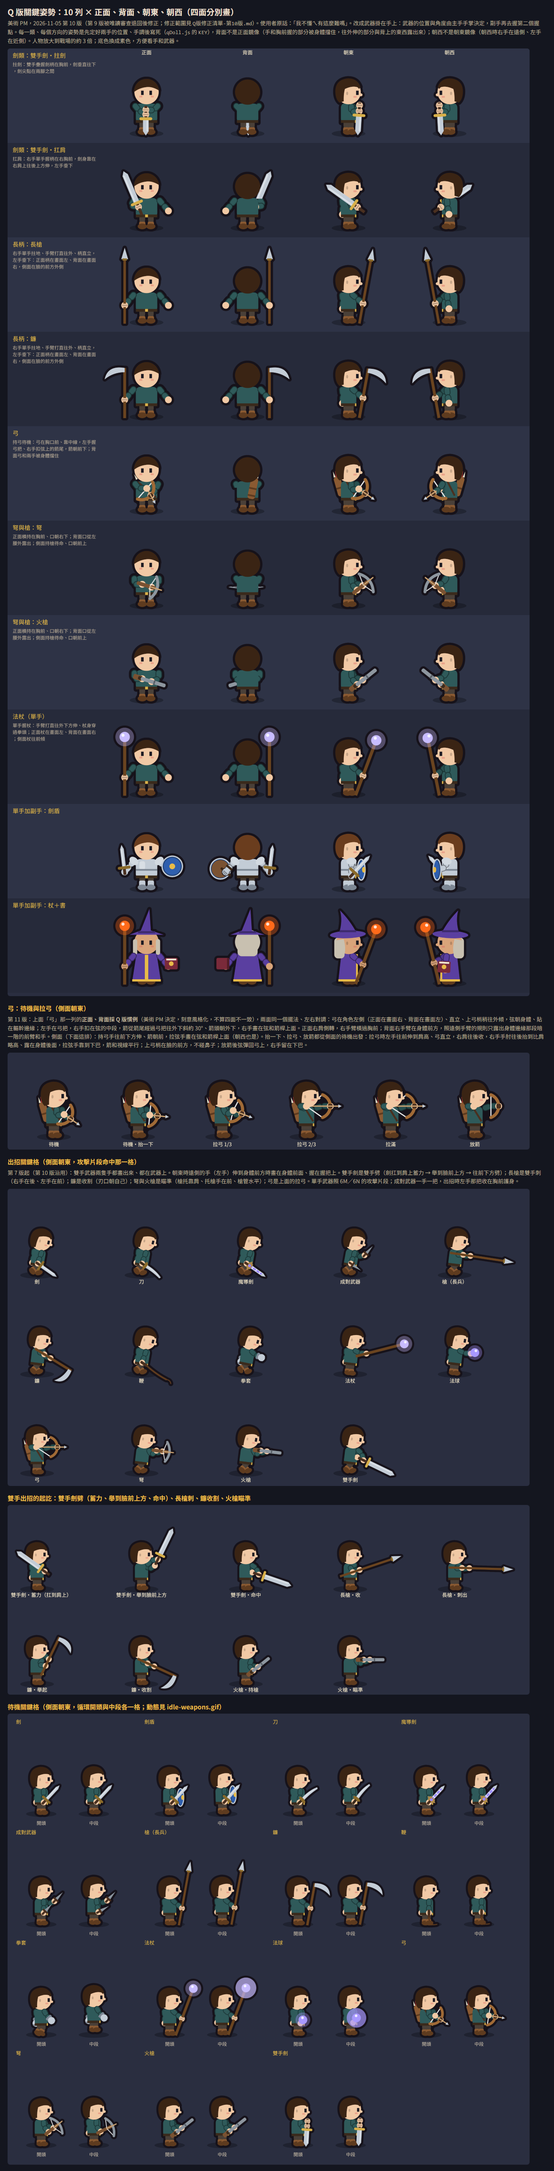
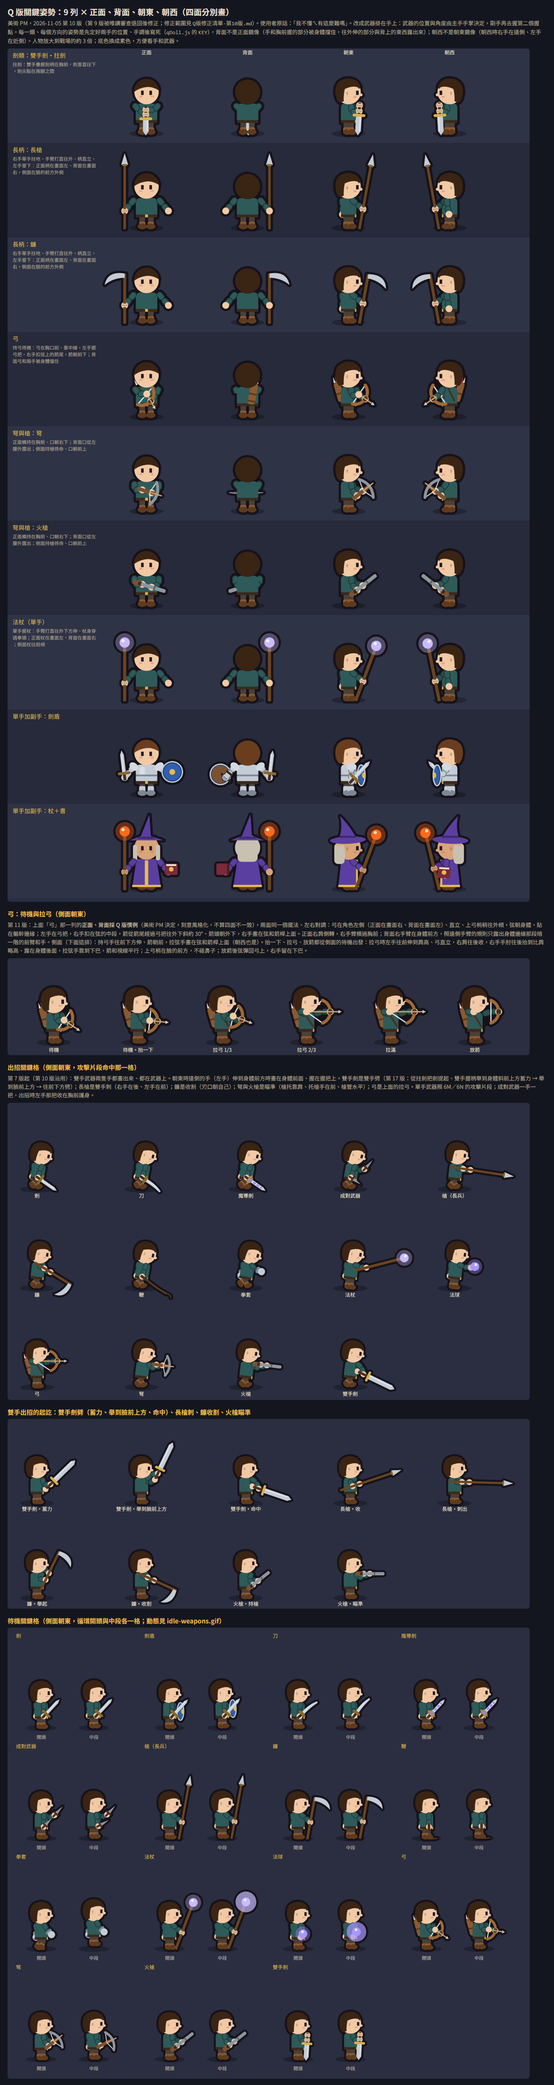
docs(art): Q v17 A — drop greatsword shoulder carry, windup lifts from plant two-handed
- Remove r02 row (4 closeups), GS switch, greatsword_shoulder pose and its
  helper paths; setGreatsword/getGreatsword removed.
- GS_ATK.from: lift from plant, both hands on hilt, blade to front-upper.
- Add ARM_SPREAD / SHIELD_CENTER switches (defaults keep v16 output).

diff --git a/docs/art/sample/qDoll.js b/docs/art/sample/qDoll.js
@@ -361,7 +361,7 @@ window.QDoll = (() => {
     const q0 = qWeapon(it), q = q0 && short && q0.kind === "greatsword" ? { ...q0, W: short === "f" ? QW.greatsword_kf : QW.greatsword_k } : q0;
     if (!q) { if (it) PD.drawWeapon(ctx, it, hand[0], view !== "back"); return; }
     ctx.save(); ctx.translate(hand[0], hand[1]); if (M) ctx.transform(M[0], M[1], M[2], M[3], 0, 0); else ctx.rotate(a);
-    if (mg) ctx.translate(0, -mg); // 主手握在武器座標 (0,mg)（扛肩握柄尾）
+    if (mg) ctx.translate(0, -mg); /* 主手握在武器座標 (0,mg) */
     q.W.draw(ctx, q.item);
     if (POSE && POSE.probe) {
       const m = ctx.getTransform(), o = offL;
@@ -388,9 +388,15 @@ window.QDoll = (() => {
   const UA = 5, FA = 5.5, REACH = UA + FA - 0.1;
   const rot = (a, [x, y]) => [x * Math.cos(a) - y * Math.sin(a), x * Math.sin(a) + y * Math.cos(a)];
   /* 第 15 版：OUTA＝持武器的手臂往外張開的角度（打直、不彎肘）；OH＝右肩打直張開時手的位置（正面左右對調） */
-  const OUTA = 0.7;
+  /* 第 17 版第 2 項（使用者：「兩隻手太開了」）：手臂往外張開的角度集中在 ARM_SPREAD 一個開關。A＝第 16 版（預設）、B＝收回一半、C＝只留一條小縫（3 倍特寫下手臂和軀幹之間 2～4px 背景色）。
+     只有比較圖（tools/arm-spread-compare.html）在載入前設 window.QDOLL_ARM_SPREAD；其他頁一律用 A，使用者選定角度後（B 批）才改預設 */
+  const ARM_SPREAD_SET = { A: 0.7, B: 0.52, C: 0.335 }; /* C：3 倍特寫量到手和腰之間 3px 背景色；角度減半（0.35）時只剩 5px、和 C 幾乎一樣，所以 B 取 A 和 C 的中間（從現在往小縫收回一半） */
+  const ARM_SPREAD = typeof window.QDOLL_ARM_SPREAD === "number" ? window.QDOLL_ARM_SPREAD : ARM_SPREAD_SET[window.QDOLL_ARM_SPREAD] ?? ARM_SPREAD_SET.A;
+  const OUTA = ARM_SPREAD;
+  /* 第 17 版第 3 項預覽（B 批才正式改）：QDOLL_SHIELD_CENTER＝背面持盾的左拳在盾的正中央握把上；只有比較圖會設 */
+  const SHIELD_CENTER = !!window.QDOLL_SHIELD_CENTER;
   function fk(x, sA, eA, len = null) { const ua = len ? len[0] : UA, fa = len ? len[1] : FA, e = [x - ua * Math.sin(sA), -20 + ua * Math.cos(sA)]; return [e[0] - fa * Math.sin(sA + eA), e[1] + fa * Math.cos(sA + eA)]; }
-  const OH = fk(8.5, -OUTA, 0);
+  const OH = fk(8.5, -OUTA, 0), OH16 = fk(8.5, -ARM_SPREAD_SET.A, 0); /* OH16：第 16 版的手高，法杖握點照手高差補回，杖尾留在地面線（預設時差 0） */
   /* 第 16 版（使用者：「側面的那隻手的肩膀太左上了吧」）：側面兩邊肩膀都在軀幹上緣的肩線上（x SSH，軀幹前後 ±5.4 的中間偏前），不再放在身體前緣、臉頰下面。
      SIDEA＝側面持武器的手臂往前下方伸的角度（打直）；SHD＝打直時手的位置。tailG：握點，讓柄尾最低點落在鞋底的地面線（T＝柄尾在武器座標的 y、hw＝柄半寬） */
   const SSH = 2, SIDEA = 0.87, SHD = fk(SSH, -SIDEA, 0);
@@ -597,17 +603,12 @@ window.QDoll = (() => {
   // 背面不是正面鏡像（11-04 晚，專案 PM：「四面都要分別畫」）：背面時手和胸前握的部分被身體擋住，往外伸的部分（槍尖、槍口、弓身）、背上的東西（箭袋、披風）露出來。
   // 側面朝西不是朝東鏡像：朝東時右手（主手）在近側，朝西時右手在遠側、左手（盾、書）在近側（WEST）。
   //   正面肩：主手 (−8.5,−20)、副手 (8.5,−20)；背面肩：主手 (8.5,−20)、副手 (−8.5,−20)；側面肩：近側 (4.5,−20)、遠側 (3,−20)
-  // 格式：hand＝主手手掌位置、a＝武器角度（作用端方向，0＝朝上、順時針為正）、og＝副手握點（武器座標）、mg＝主手握在武器座標的哪一點（扛肩握柄尾）
+  // 格式：hand＝主手手掌位置、a＝武器角度（作用端方向，0＝朝上、順時針為正）、og＝副手握點（武器座標）、mg＝主手握在武器座標的哪一點
   const CLASS_OF = { greatsword: "greatsword", spear: "polearm", scythe: "polearm", bow: "bow", crossbow: "gun", gun: "gun", staff: "staff" };
-  let GS = "plant"; // 雙手劍正面姿勢：plant 拄劍、shoulder 扛肩（使用者選）
-  // 雙手劈（第 7 版）：蓄力＝劍扛到肩上（劍柄在胸前、兩手都在柄上、劍身沿肩往後伸，從頭後面露出）→ 舉到臉前上方（劍從臉的前方外側往上）→ 往前下方劈。
-  //   副手在主手下方 4.5（靠劍柄尾）；命中時主手往前伸，副手才不會縮到身體後面（審查：「命中只畫一隻手」）
-  // 第 8 版：蓄力和扛肩同一個姿勢（劍架在肩膀上方、斜往後上方，兩手在胸前），右手靠護手（握在 +1.2）、左手在柄尾（+6.8），中間露出一段劍柄
-  // 第 9 版：朝東右肩在近側，劍身從胸前經過近側肩頸、往後上方，蓋在後腦頭髮上面（畫在頭上面），但從下巴下面經過、不蓋到臉；朝西右肩在遠側，劍在頭後面（fromW＝第 8 版）
-  //   審查：「朝東劍身整段藏在頭後面，等於扛在遠側肩上」「金色護手頂到下巴」。副手握柄尾（+6.2），遠側肩轉到前面（farX）、手臂稍長（olen）才搆得到
-  /* 第 10 版：舉到臉前上方（mid）手往前上移，護手在臉的前方上面、不壓到鼻尖（審查：「g2 護手左端蓋到鼻尖」） */
-  /* 第 13 版：蓄力同扛肩，改成單手（one）：右手握柄、劍靠在右肩，左手垂下；舉到臉前上方起才兩手握 */
-  const GS_ATK = { from: { hand: [6.2, -14.6], a: -0.95, layer: "front", one: true }, fromW: { hand: [6.2, -14.6], a: -0.95, layer: "head", one: true, clipBody: true }, mid: { hand: [13.4, -24.4], a: 0.45 }, to: { hand: [10.5, -12], a: 1.9, elbow: 1 }, og: [0, 6.8], mg: 1.2 };
+  /* 雙手劈：蓄力 → 舉到臉前上方（劍從臉的前方外側往上）→ 往前下方劈。副手在主手下方 5.6（靠劍柄尾）；命中時主手往前伸，副手才不會縮到身體後面（審查：「命中只畫一隻手」）
+     第 10 版：舉到臉前上方（mid）手往前上移，護手在臉的前方上面、不壓到鼻尖（審查：「g2 護手左端蓋到鼻尖」）
+     第 17 版（使用者：「扛在肩上放棄 沒救」）：雙手劍只留拄劍，蓄力改成從拄劍把劍提起來：兩手照拄劍那樣上下握柄，劍尖從地上翻起，劍舉到身體斜前上方（劍尖朝前上）；朝東、朝西同一組 */
+  const GS_ATK = { from: { hand: [11, -15.5], a: 0.8 }, mid: { hand: [13.4, -24.4], a: 0.45 }, to: { hand: [10.5, -12], a: 1.9, elbow: 1 }, og: [0, 6.8], mg: 1.2 };
   const KEY = {
     greatsword: { zh: "拄劍：雙手疊握劍柄在胸前，劍垂直往下，劍尖點在兩腳之間",
       /* 第 13 版：雙手往上 0.8～2.2，劍尖落在地面線（y ≈ +1，鞋底 +0.8），不懸空也不插進地裡（使用者：「長度或高度不構」） */
@@ -618,14 +619,6 @@ window.QDoll = (() => {
       /* 第 14 版：朝西照朝東的鏡像握法：近側左手握下面、遠側右手握上面（mg 4：主手握在劍柄上段，劍的位置不變）。
          原本近側左手握上面，前臂從下面繞上來、壓過遠側下拳，圖層怎麼畫都不對（審查：「r01 朝西遠側下拳蓋在近側前臂上面」） */
       sideW: { hand: [7.2, -19.8], a: Math.PI + 0.06, og: [0, 0], mg: 4, short: true },       // 兩手前後分開握（使用者看出「兩手疊成一團」）：下手 (7.4,−15.8)、上手在上 4（離下巴約 1 單位）
-      atk: GS_ATK,
-    },
-    /* 第 13 版：扛肩改成單手（使用者：「雙手劍扛肩膀的時候就只會用一隻手了」）：右手在右胸前握柄，劍身靠在右肩上往後上方伸；左手自然垂下。護手離開下巴 */
-    greatsword_shoulder: { zh: "扛肩：右手單手握柄在右胸前，劍身靠在右肩上往後上方伸，左手垂下",
-      front: { hand: [-5.6, -14.8], a: -0.4 },                                        // 劍身從右肩（畫面左）頂上越過往左上；左手垂在身側
-      back: { hand: [5.6, -14.8], a: 0.4, behind: true },                             // 背面：右手和劍柄在身前，只畫肩線以上：劍身從右肩（畫面右）斜到背後上方；左手垂在身側
-      side: { hand: [6.2, -14.6], a: -0.95, layer: "front" },                          // 朝東：劍靠在近側右肩、從下巴下面經過，劍身蓋在後腦頭髮上
-      sideW: { hand: [6.2, -14.6], a: -0.95, layer: "head", clipBody: true },  /* 第 13 版：朝西右肩在遠側，劍身被身體擋住，只露出身體前緣外的握柄、拳頭和肩線以上（頭後面）的劍身 */  /* 第 10 版：整把往下 3.8、往後 1.6，金色護手離開下巴（近側左手仍搆得到柄尾）（審查：「扛肩朝西護手頂到下巴」） */      // 第 8 版：劍身架在肩膀上方、斜往後上方，從頭後面伸出；兩手在胸前（使用者：「把劍夾在腋下?」）。第 7 版：右手（主手）靠護手、左手（副手）握柄尾在更前面，兩手之間看得到劍柄；劍身沿肩膀往後、從頭後面伸出（審查：「後腦只露出一截劍尖，手什麼都沒握到」）
       atk: GS_ATK,
     },
     polearm: { zh: "右手單手拄地、手臂打直往外、柄直立，左手垂下：正面柄在畫面左、背面在畫面右，側面在臉的前方外側",
@@ -656,8 +649,8 @@ window.QDoll = (() => {
       side: { hand: [6, -11], a: 0.9, og: [0, -5] },                                  // 第 8 版：托槍手往後一點，待機時弩口往下點也還搆得到（審查：「弩中段只看到一隻手」）
       atk: { from: { hand: [6, -11], a: 0.9 }, to: { hand: [11, -20], a: Math.PI / 2, farX: 6.5, elbow: "down" }, og: [0, -5] } },  // 第 8 版瞄準：槍托頂在肩窩（槍托尾在 x 4.5）、臉頰貼在槍托上緣，扳機手手肘朝下；托槍那側的肩膀轉到前面（側身持槍）
     staff: { zh: "單手握杖：手臂打直往外下方伸、杖身穿過拳頭；正面杖在畫面左、背面在畫面右；側面杖往前傾",
-      front: { hand: [-OH[0], OH[1]], a: 0, grip: -3.72, st: true },  /* 第 15 版審查：手抬高後杖跟著往上，杖尾懸空 38px；握點往下（grip），杖尾落在鞋底的地面線 */  /* 第 15 版：手臂打直往外下方伸（OUTA），杖直立在身體外側 */  /* 第 13 版：手臂自然垂直，拳頭接著袖口，四指從杖身前面繞過去（wrap） */
-      back: { hand: [OH[0], OH[1]], a: 0, grip: -3.72, st: true },  /* 第 15 版：同正面（鏡像）：手臂打直往外下方伸，和身體之間有空隙；杖直立在身體外側，從拳頭上下穿出 */  /* 第 14 版：手垂在身側稍往內，杖和手臂同一條線（拳頭 → 肩膀）：從背後看，手臂蓋住拳頭以上的杖身，杖頭從肩膀外上方露出 */                                           // 第 7 版：背面杖在畫面右（右手在身側），手和杖都看得到（審查：「杖畫在背上、握杖的手卻被擋住」）
+      front: { hand: [-OH[0], OH[1]], a: 0, grip: -3.72 + (OH[1] - OH16[1]), st: true },  /* 第 15 版審查：手抬高後杖跟著往上，杖尾懸空 38px；握點往下（grip），杖尾落在鞋底的地面線 */  /* 第 15 版：手臂打直往外下方伸（OUTA），杖直立在身體外側 */  /* 第 13 版：手臂自然垂直，拳頭接著袖口，四指從杖身前面繞過去（wrap） */
+      back: { hand: [OH[0], OH[1]], a: 0, grip: -3.72 + (OH[1] - OH16[1]), st: true },  /* 第 15 版：同正面（鏡像）：手臂打直往外下方伸，和身體之間有空隙；杖直立在身體外側，從拳頭上下穿出 */  /* 第 14 版：手垂在身側稍往內，杖和手臂同一條線（拳頭 → 肩膀）：從背後看，手臂蓋住拳頭以上的杖身，杖頭從肩膀外上方露出 */                                           // 第 7 版：背面杖在畫面右（右手在身側），手和杖都看得到（審查：「杖畫在背上、握杖的手卻被擋住」）
       side: { hand: SHD, a: 0.36, aW: 0.2, grip: tailG(9, 1.1, 0.36), gripW: tailG(9, 1.1, 0.2), st: true },  /* 第 16 版：肩膀移到肩線，手臂打直往前下方；朝東杖的位置幾乎不變（手沿杖身往上滑），朝西杖尾仍在近側鞋子前面、光暈不碰頭 */  /* 第 15 版審查第二輪：杖多往前傾（0.2 → 0.36），杖頭的光暈離開帽簷和頭髮（審查：「r10 朝東光暈壓在帽簷」「i10 中段光暈壓到頭髮」）；朝西遠側的手往前（hw）、杖少傾一點（aW 0.2），杖尾在近側鞋子前面、不重疊，gripW＝朝西的握點（審查：「r08 朝西杖尾畫在近側鞋尖上」） */  /* 第 15 版審查：杖尾落在地面線（grip；出招片段只讀 mg，不受影響）；hw＝朝西右肩在遠側（x 3），手打直時和朝東同高 */  /* 第 15 版：手臂打直（原本差一點點伸直） */
       sideW: { hand: fk(SSH, -1.0, 0), a: 0.24, mg: tailG(9, 1.1, 0.24, fk(SSH, -1.0, 0)[1]), needOff: true, st: true } },  /* 第 16 版：手臂從肩線打直往前下方（多往前一點，拳頭在書的前方），杖多傾一點，光暈不壓帽簷 */  /* 第 15 版：遠側右手臂打直往前下方伸，拳頭在書的前方（握點跟著往下，杖的位置大致不變） */                // 第 9 版：朝西拿書時，遠側右手握在杖的高一點（胸前），書在近側、蓋在杖上面，握杖的手露在書上方（審查：「杖壓在書上面、杖上沒有手」）                                          // 第 8 版：杖少往前傾一點，杖頭不伸進隔壁格（審查：「書那列朝東、朝西的杖頭互相重疊」）
   };
@@ -665,7 +658,6 @@ window.QDoll = (() => {
     const q = qWeapon(gear.main_hand); if (!q) return null;
     let c = CLASS_OF[q.kind]; if (!c) return null;
     if (c !== "staff" && gear.off_hand) return null; // 雙手武器副手有東西就改單手
-    if (c === "greatsword" && GS === "shoulder") c = "greatsword_shoulder";
     return { c, K: KEY[c], kind: q.kind };
   }
   const backKey = (key) => key && (key.kind === "crossbow" && key.K.backX ? key.K.backX : key.K.back);
@@ -690,7 +682,7 @@ window.QDoll = (() => {
   // 朝東：近側＝主手（右），肩 x 4.5；遠側＝副手（左），肩 x 3。朝西相反（座標一律用朝東畫，stamp 再鏡像）。
   // 武器掛在「持武器的手」：一般是主手；弓是副手（左手持弓、右手拉弦，右撇子弓手的常識）。另一隻手去握第二握點，搆不到就放開。
   // 圖層：遠側的手在身體前方（x > 4.6）時畫在身體之後、頭之前，並裁掉肩膀那段；在身旁或身後就畫在身體之前（被擋）。
-  //   武器 layer：head＝身體之後、頭之前（扛肩、蓄力的劍身在頭後；弓的弦在臉後）；front＝頭之後；back＝身體之前（遠側單手、手在身旁）。
+  //   武器 layer：head＝身體之後、頭之前（往後舉的劍身在頭後；弓的弦在臉後）；front＝頭之後；back＝身體之前（遠側單手、手在身旁）。
   const clamp01 = (t) => Math.max(0, Math.min(1, t));
   function sidePlan(unit, key, anim, W) {
     const { gear } = unit, bowK = !!key && key.c === "bow", SX = typeof POSE?.atk === "number" ? { main: W ? 3 : 4.5, off: W ? 4.5 : 3 } : bowK ? { main: SSH, off: W ? 4.5 : 3 } : { main: SSH, off: SSH }, nearWho = W ? "off" : "main"; /* 第 16 版：兩邊肩膀都在軀幹肩線上（SSH）；弓的持弓肩（左）照舊轉到前面（側身持弓，farX 另外調），拉弦的右肩也回到肩線；雙手出招（atk：蓄力、舉起、劈、刺、瞄準）是揮動中的姿勢，肩膀跟著轉到前面，照第 15 版 */
@@ -698,18 +690,17 @@ window.QDoll = (() => {
     if (key && !anim) {
       const ks = W && key.K.sideW && !(key.K.sideW.needOff && !gear.off_hand) ? key.K.sideW : key.K.side, bow = key.c === "bow"; /* 第 9 版：朝西另外手調（sideW） */
       let hand = W && ks.hw ? ks.hw : ks.hand, a = W && ks.aW != null ? ks.aW : ks.a, og = ks.og ?? null, mg = ks.mg ?? (key.kind === "scythe" && ks.gripS != null ? ks.gripS : W && ks.gripW != null ? ks.gripW : ks.grip) ?? 0, short = !!ks.short, layer = ks.layer ?? null, elbow = -1, olen = ks.olen ?? null;
-      if (ks.farX && !W) SX.off = ks.farX; /* 第 9 版：遠側左肩轉到前面一點（持弓手伸到前下方、扛肩的左手握柄尾） */
+      if (ks.farX && !W) SX.off = ks.farX; /* 第 9 版：遠側左肩轉到前面一點（持弓手伸到前下方） */
       const AK = (key.kind === "scythe" && key.K.atkScythe) || key.K.atk;
       if (AK && typeof POSE?.atk === "number") {
-        const fr = W && AK.fromW ? AK.fromW : AK.from; /* 第 9 版：雙手劍蓄力朝東劍在近側肩上、朝西在頭後面 */
+        const fr = AK.from; /* 第 17 版：蓄力朝東、朝西同一組（從拄劍提起） */
         const t = clamp01(POSE.atk), [P0, P1, tt] = AK.mid ? (t < 0.5 ? [fr, AK.mid, t * 2] : [AK.mid, AK.to, t * 2 - 1]) : [fr, AK.to, t];
         const L = (p, q) => p + (q - p) * tt;
         hand = [L(P0.hand[0], P1.hand[0]), L(P0.hand[1], P1.hand[1])]; a = L(P0.a, P1.a); og = AK.og; mg = AK.mg ?? 0; short = false; elbow = tt > 0.5 ? P1.elbow ?? -1 : P0.elbow ?? -1;
         if (P0.farX || P1.farX) SX.off = L(P0.farX ?? SX.off, P1.farX ?? SX.off); // 側身：托槍那側（左）的肩膀轉到前面
         if (P0.og) og = tt < 0.5 ? P0.og : AK.og; /* 第 9 版：蓄力的副手握點跟著姿勢 */
-        if (P0.one && tt < 0.5) og = null; /* 第 13 版：蓄力（扛肩）單手握 */
         olen = tt < 0.5 ? P0.olen ?? null : null;
-        layer = tt < 0.5 && P0.layer ? P0.layer : Math.sin(a) < -0.3 ? "head" : null; // 蓄力：劍身架在肩上、從頸後往後上方伸（畫在頭上面，貼著後頸）
+        layer = tt < 0.5 && P0.layer ? P0.layer : Math.sin(a) < -0.3 ? "head" : null; /* 劍身往後上方時畫在頭上面、貼著後頸 */
       }
       if (bow) {
         const t = clamp01(pz("bowAim")), A2 = key.K.aim;
@@ -718,7 +709,7 @@ window.QDoll = (() => {
         og = "string"; layer = W ? "head" : "mid"; bowT = t; // 第 9 版：朝東弓在遠側左手、右手壓在弦上（右手臂畫在弓上面）；朝西弓在最前面
       }
       const wh = bow ? "off" : "main", hlen = ks.hlen && !pz("bowAim") ? ks.hlen : null, k = ks.st && typeof POSE?.atk !== "number" ? { sA: Math.atan2(-(hand[0] - SX[wh]), hand[1] + 20), eA: 0 } : ik(SX[wh], hand, elbow, hlen); /* 第 15 版：st＝手臂打直 */ // elbow：手肘往後（−1）、往前上（+1）或往下（"down"，瞄準）
-      P = { wh, sA: k.sA + pz("arm"), eA: k.eA, a: a + pz("arm") + pz("dw"), og, mg, short, layer, split: true, farX: ks.farX, olen, hlen, clipBody: W && (typeof POSE?.atk === "number" && AK ? !!(AK.fromW?.clipBody && clamp01(POSE.atk) < 0.25) : !!ks.clipBody) };
+      P = { wh, sA: k.sA + pz("arm"), eA: k.eA, a: a + pz("arm") + pz("dw"), og, mg, short, layer, split: true, farX: ks.farX, olen, hlen };
     } else {
       // 6M／6N 片段或沒有關鍵姿勢的武器：主手臂角度 arm、武器角度 arm＋wpn；雙手武器出招時副手去握 og
       // 第 8 版：朝西時空手的遠側右手和朝東一樣垂在身後、露一點（審查：「朝東露一點，朝西完全看不到」）
@@ -830,7 +821,7 @@ window.QDoll = (() => {
   // 畫的順序（由後到前；部件的圖層見 docs/art/部件四方向清單.md）
   //   正面：披風（暗）→ 背掛（露在肩上的部分）→ 尾巴 → 腿 → 身體 → 紋章、頸飾、背帶、腰掛 → 披風扣 → 副手臂＋副手 → 頭 → 武器 → 副手臂 → 主手臂
   //   側面：披風（背後那片）→ 背掛 → 尾巴 → 遠側手臂（朝東：副手；朝西：主手＋單手武器）→ 遠側腰掛 → 腿 → 身體 → 紋章、頸飾、背帶、近側腰掛 → 盾（朝東）→ 頭 → 武器 → 近側手臂（朝東：主手；朝西：副手＋盾、書）
-  //   背面：武器與兩隻手臂（在身體前方＝畫面後）→ 副手物品 → 腿 → 身體 → 腰掛 → 披風 → 背掛 → 尾巴 → 扛肩的劍身 → 頭
+  //   背面：武器與兩隻手臂（在身體前方＝畫面後）→ 副手物品 → 腿 → 身體 → 腰掛 → 披風 → 背掛 → 尾巴 → 頭
   function draw(ctx, unit, view) {
     const { look, gear } = unit, F = view === "front", B = view === "back", S = view === "side";
     CTX = ctx;
@@ -860,7 +851,7 @@ window.QDoll = (() => {
         const who = kb.wh ?? "main", sx = who === "main" ? 8.5 : -8.5, k0 = armTo(sx, kb.hand, sx > 0 ? 1 : -1), h = fk(sx, k0.sA, k0.eA), ol = ogLocal(kb.og);
         const M = kb.fore ?? null, o = M ? [M[0] * ol[0] + M[2] * ol[1], M[1] * ol[0] + M[3] * ol[1]] : rot(kb.a, ol), io = ik(-sx, [h[0] + o[0], h[1] + o[1]], sx > 0 ? -1 : 1);
         /* 第 13 版：武器在身體前方、比手臂離鏡頭更遠：先畫武器，再畫兩隻手臂，肩膀和上臂蓋在武器上面（審查：「弩穿插在肩膀圖層之間」） */
-        if (!kb.behind) { BOWP = { nock: true }; mainWeapon(ctx, gear.main_hand, h, kb.a, "back", kb.short || false, ol, 0, M); BOWP = null; mark("weapon"); }
+        BOWP = { nock: true }; mainWeapon(ctx, gear.main_hand, h, kb.a, "back", kb.short || false, ol, 0, M); BOWP = null; mark("weapon");
         arm(ctx, unit, -sx, io.sA, io.eA, 0, rec(who === "main" ? "off" : "main"));
         arm(ctx, unit, sx, k0.sA, k0.eA, 0, rec(who));
       } else {
@@ -875,13 +866,12 @@ window.QDoll = (() => {
           const k0 = armK(8.5, kb, 1), h = fk(8.5, k0.sA, k0.eA), mgB = (key.kind === "scythe" && kb.gripS != null ? kb.gripS : kb.grip) ?? 0;
           mainWeapon(ctx, gear.main_hand, h, kb.a, "back", false, null, mgB); mark("weapon");
         }
-        if (kb && kb.behind) { const k0 = armTo(8.5, kb.hand, 1); arm(ctx, unit, 8.5, k0.sA, k0.eA, 0, rec("main")); } /* 第 13 版：扛肩單手：右手在身前握柄（被擋住），劍身在肩線以上另外畫 */
-        else if (gear.main_hand && !(key && (key.c === "staff" || key.c === "bow" || key.c === "polearm"))) { ctx.save(); ctx.translate(0, pz("armR")); mainWeapon(ctx, gear.main_hand, fk(8.5, -outOf(gear), 0), -holdOf(gear.main_hand, "front"), "back"); ctx.restore(); mark("weapon"); }
+        if (gear.main_hand && !(key && (key.c === "staff" || key.c === "bow" || key.c === "polearm"))) { ctx.save(); ctx.translate(0, pz("armR")); mainWeapon(ctx, gear.main_hand, fk(8.5, -outOf(gear), 0), -holdOf(gear.main_hand, "front"), "back"); ctx.restore(); mark("weapon"); }
         // 單手武器（劍、刀、匕首、鎚……）：正面拿在身側，背面也在身側（畫面右），身體之後畫、手和武器都看得到，見下面
       }
       mark("arms");
       if (isShield(gear.off_hand)) {
-        { const sh = fk(-8.5, OUTA, 0); shieldBack(ctx, gear.off_hand, sh[0] - 2.7, sh[1] + 9.63); } mark("shield"); /* 第 16 版：盾跟著打直往外的左手（盾心在拳頭外側一點），不貼背 */ // 第 9 版：盾在身體後面；持盾的手臂在身體之後畫（見 shieldArmBack）
+        { const sh = fk(-8.5, OUTA, 0), oh = gear.off_hand; if (SHIELD_CENTER) shieldBack(ctx, oh, sh[0] + 1, sh[1] + (oh.kind === "shield_round" ? 11.8 : oh.form === "tower" ? 11.5 : 11)); else shieldBack(ctx, oh, sh[0] - 2.7, sh[1] + 9.63); } mark("shield"); /* 第 16 版：盾跟著打直往外的左手（盾心在拳頭外側一點），不貼背 */ // 第 9 版：盾在身體後面；持盾的手臂在身體之後畫（見 shieldArmBack）
       }
     }
     // ---- 側面（第 7 版）：兩隻手的位置、武器在哪隻手、各畫在哪一層（sidePlan）----
@@ -896,11 +886,9 @@ window.QDoll = (() => {
       ctx.restore();
     };
     const sideWeapon = () => { if (key && key.c === "bow") BOWP = { pull: SP.pull, nock: !SP.released };
-      if (SP.clipBody) { ctx.save(); ctx.beginPath(); ctx.rect(5.6, -80, 80, 160); ctx.rect(-80, -80, 160, 58.6); ctx.clip(); } /* 第 13 版：朝西扛肩，身體輪廓裡的劍身不畫（被身體擋住） */
       mainWeapon(ctx, gear.main_hand, SP.h, SP.a, "side", SP.short, SP.ol, SP.mg); BOWP = null; mark("weapon");
-      if (SP.clipBody) ctx.restore();
       if (key && !anim && typeof POSE?.atk !== "number" && (key.c === "staff" || key.c === "polearm" || key.c.startsWith("greatsword"))) {
-        /* 第 14 版：雙手劍（拄劍、扛肩）的握柄也照握杖：四指橫過劍柄，劍柄從拳頭上下穿出（審查：「劍柄畫在拳頭上面，看起來沒被握住」）。伸到身前的遠側手暗一階 */
+        /* 第 14 版：雙手劍（拄劍）的握柄也照握杖：四指橫過劍柄，劍柄從拳頭上下穿出（審查：「劍柄畫在拳頭上面，看起來沒被握住」）。伸到身前的遠側手暗一階 */
         /* 遠側手：四指只畫在拳頭輪廓裡（不凸出拳頭）；近側手臂已經畫過時，在拳頭那一圈再補畫一次近側手臂，回到「近側袖子壓在遠側拳頭上」（審查：「r02 朝西遠側四指蓋到近側袖子」） */
         const one = (pos, who) => {
           if (!(SP.far.who === who && SP.far.front)) { wrap(ctx, unit, pos, SP.a); return; }
@@ -930,7 +918,7 @@ window.QDoll = (() => {
         /* 第 14 版：杖（長柄）已在身體之前畫；這裡只畫握杖的手臂，蓋在杖上（見身體之前那段） */
         const k0 = armK(8.5, kb, 1);
         arm(ctx, unit, 8.5, k0.sA, k0.eA, 0, rec("main"));
-      } else if (!(kb && (kb.og || kb.behind))) {
+      } else if (!(kb && kb.og)) {
         // 空手或單手武器：右手垂在身側（畫面右），單手武器握在手裡、刃往外斜（正面的鏡像位置；審查：「背面垂在身側的手都消失了」）
         const rm = rec("main");
         ctx.save(); ctx.translate(0, pz("armR"));
@@ -960,7 +948,6 @@ window.QDoll = (() => {
       backItem(ctx, bk, "back", "over");
       if (R) R.tail(ctx, look, "back", 0);
       const kb = backKey(key);
-      if (kb && kb.behind) { const k0 = armTo(8.5, kb.hand, 1), h = fk(8.5, k0.sA, k0.eA); ctx.save(); ctx.beginPath(); ctx.rect(-40, -80, 80, 59.5); ctx.clip(); mainWeapon(ctx, gear.main_hand, h, kb.a, "back", false, ogLocal(kb.og)); ctx.restore(); mark("weapon"); }
     }
     if (F && gear.cloak) cloakClasp(ctx, gear.cloak, false);
     const twoF = F && key && (key.K.front.og || key.K.front.wh === "off");
@@ -1336,5 +1323,5 @@ window.QDoll = (() => {
     ctx.drawImage(off, dx0, dy0, W * size, H * size);
     ctx.restore();
   }
-  return { draw, stamp, setPose: (p) => { POSE = p; }, selfTest, QW, TWO, KEY, CLASS_OF, fk, rot, BOW_EY, setGreatsword: (v) => { GS = v; }, getGreatsword: () => GS };
+  return { draw, stamp, setPose: (p) => { POSE = p; }, selfTest, QW, TWO, KEY, CLASS_OF, fk, rot, BOW_EY };
 })();

diff --git a/docs/art/sample/key-poses.html b/docs/art/sample/key-poses.html
@@ -7,14 +7,14 @@
   canvas{display:block;border-radius:6px;background:#2a2e40}
 </style></head>
 <body>
-<h1>Q 版關鍵姿勢：10 列 × 正面、背面、朝東、朝西（四面分別畫）</h1>
+<h1>Q 版關鍵姿勢：9 列 × 正面、背面、朝東、朝西（四面分別畫）</h1>
 <p class="note">美術 PM，2026-11-05 第 10 版（第 9 版被唯讀審查退回後修正；修正範圍見 <code>Q版修正清單-第10版.md</code>）。使用者原話：「我不懂ㄟ有這麼難嗎」。改成武器掛在手上：武器的位置與角度由主手手掌決定，副手再去握第二個握點。每一類、每個方向的姿勢是先定好兩手的位置、手調後寫死（<code>qDoll.js</code> 的 <code>KEY</code>），背面不是正面鏡像（手和胸前握的部分被身體擋住，往外伸的部分與背上的東西露出來）；朝西不是朝東鏡像（朝西時右手在遠側、左手在近側）。人物放大到戰場的約 3 倍；底色換成素色，方便看手和武器。</p>
 <canvas id="k"></canvas>
 <h2>弓：待機與拉弓（側面朝東）</h2>
 <p class="note">第 11 版：上面「弓」那一列的<b>正面、背面採 Q 版慣例</b>（美術 PM 決定，刻意風格化，不算四面不一致），兩面同一個擺法、左右對調：弓在角色左側（正面在畫面右、背面在畫面左）、直立、上弓梢稍往外傾，弦朝身體、貼在軀幹邊緣；左手在弓把，右手扣在弦的中段，箭從箭尾經過弓把往外下斜約 30°、箭頭朝外下，右手畫在弦和箭桿上面。正面右肩側轉，右手臂橫過胸前；背面右手臂在身體前方，照遠側手臂的規則只露出身體邊緣那段暗一階的前臂和手。側面（下面這排）：持弓手往前下方伸、箭朝前，拉弦手畫在弦和箭桿上面（朝西也是）。抬一下、拉弓、放箭都從側面的待機出發：拉弓時左手往前伸到肩高、弓直立，右肩往後收，右手手肘往後抬到比肩略高、露在身體後面，拉弦手靠到下巴，箭和視線平行；上弓梢在臉的前方，不碰鼻子；放箭後弦彈回弓上，右手留在下巴。</p>
 <canvas id="b"></canvas>
 <h2>出招關鍵格（側面朝東，攻擊片段命中那一格）</h2>
-<p class="note">第 7 版起（第 10 版沿用）：雙手武器兩隻手都畫出來、都在武器上。朝東時遠側的手（左手）伸到身體前方時畫在身體前面、握在握把上。雙手劍是雙手劈（劍扛到肩上蓄力 → 舉到臉前上方 → 往前下方劈）；長槍是雙手刺（右手在後、左手在前）；鐮是收割（刃口朝自己）；弩與火槍是瞄準（槍托靠肩、托槍手在前、槍管水平）；弓是上面的拉弓。單手武器照 6M／6N 的攻擊片段；成對武器一手一把，出招時左手那把收在胸前護身。</p>
+<p class="note">第 7 版起（第 10 版沿用）：雙手武器兩隻手都畫出來、都在武器上。朝東時遠側的手（左手）伸到身體前方時畫在身體前面、握在握把上。雙手劍是雙手劈（第 17 版：從拄劍把劍提起、雙手握柄舉到身體斜前上方蓄力 → 舉到臉前上方 → 往前下方劈）；長槍是雙手刺（右手在後、左手在前）；鐮是收割（刃口朝自己）；弩與火槍是瞄準（槍托靠肩、托槍手在前、槍管水平）；弓是上面的拉弓。單手武器照 6M／6N 的攻擊片段；成對武器一手一把，出招時左手那把收在胸前護身。</p>
 <canvas id="a"></canvas>
 <h2>雙手出招的起訖：雙手劍劈（蓄力、舉到臉前上方、命中）、長槍刺、鐮收割、火槍瞄準</h2>
 <canvas id="g2"></canvas>
@@ -26,12 +26,12 @@
 const Q=QDoll,FONT="'Noto Sans TC','Microsoft JhengHei',sans-serif",TPL=PaperDoll.TEMPLATES,IT=PaperDoll.ITEMS;
 function cv(id,w,h){const c=document.getElementById(id);c.width=w*2;c.height=h*2;c.style.width=w+"px";c.style.height=h+"px";const x=c.getContext("2d");x.scale(2,2);return x;}
 const U=(k)=>Anim.unit(k);
-const ROWS=[["劍類：雙手劍・拄劍",U("greatsword"),"greatsword"],["劍類：雙手劍・扛肩",U("greatsword"),"greatsword_shoulder","shoulder"],["長柄：長槍",U("spear"),"polearm"],["長柄：鐮",U("scythe"),"polearm"],["弓",U("bow"),"bow"],["弩與槍：弩",U("crossbow"),"gun"],["弩與槍：火槍",U("gun"),"gun"],["法杖（單手）",U("staff"),"staff"],["單手加副手：劍盾",{look:TPL.hero_fighter.look,gear:{...TPL.hero_fighter.gear,cloak:undefined}},null],["單手加副手：杖＋書",TPL.hero_mage,null]];
+const ROWS=[["劍類：雙手劍・拄劍",U("greatsword"),"greatsword"],["長柄：長槍",U("spear"),"polearm"],["長柄：鐮",U("scythe"),"polearm"],["弓",U("bow"),"bow"],["弩與槍：弩",U("crossbow"),"gun"],["弩與槍：火槍",U("gun"),"gun"],["法杖（單手）",U("staff"),"staff"],["單手加副手：劍盾",{look:TPL.hero_fighter.look,gear:{...TPL.hero_fighter.gear,cloak:undefined}},null],["單手加副手：杖＋書",TPL.hero_mage,null]];
 const V=[["front",false,"正面"],["back",false,"背面"],["side",false,"朝東"],["side",true,"朝西"]];
 const K=3.4,RH=224,x=cv("k",1240,ROWS.length*RH+8);
-ROWS.forEach(([zh,u,c,gs],r)=>{Q.setGreatsword(gs||"plant");const y0=r*RH;x.fillStyle=r%2?"#262a3a":"#2e3346";x.fillRect(0,y0,1240,RH);x.fillStyle="#e8bb48";x.font=`14px ${FONT}`;x.textAlign="left";x.fillText(zh,12,y0+22);
+ROWS.forEach(([zh,u,c],r)=>{const y0=r*RH;x.fillStyle=r%2?"#262a3a":"#2e3346";x.fillRect(0,y0,1240,RH);x.fillStyle="#e8bb48";x.font=`14px ${FONT}`;x.textAlign="left";x.fillText(zh,12,y0+22);
   if(c){x.fillStyle="#b8ab96";x.font=`11px ${FONT}`;const t=Q.KEY[c].zh;x.fillText(t.slice(0,18),12,y0+42);x.fillText(t.slice(18,36),12,y0+58);x.fillText(t.slice(36),12,y0+74);}
-  V.forEach(([v,w,t],j)=>{const cx=330+j*240,fy=y0+RH-22;x.beginPath();x.ellipse(cx,fy,40,8,0,0,Math.PI*2);x.fillStyle="rgba(0,0,0,0.25)";x.fill();Q.stamp(x,u,v,cx,fy,K,w);if(r===0){x.fillStyle="#f2e6c8";x.font=`12px ${FONT}`;x.textAlign="center";x.fillText(t,cx,14);x.textAlign="left";}});});Q.setGreatsword("plant");
+  V.forEach(([v,w,t],j)=>{const cx=330+j*240,fy=y0+RH-22;x.beginPath();x.ellipse(cx,fy,40,8,0,0,Math.PI*2);x.fillStyle="rgba(0,0,0,0.25)";x.fill();Q.stamp(x,u,v,cx,fy,K,w);if(r===0){x.fillStyle="#f2e6c8";x.font=`12px ${FONT}`;x.textAlign="center";x.fillText(t,cx,14);x.textAlign="left";}});});
 // 弓的待機與拉弓
 const B=cv("b",1240,230),bow=U("bow"),FR=[["待機",{nock:1}],["待機・抬一下",{nock:1,arm:-0.3,dw:-0.2}],["拉弓 1/3",{bowAim:0.4,pull:1}],["拉弓 2/3",{bowAim:0.8,pull:2.5}],["拉滿",{bowAim:1,pull:4}],["放箭",{bowAim:1,pull:0}]];
 FR.forEach(([t,p],i)=>{const cx=110+i*200,fy=200;B.beginPath();B.ellipse(cx,fy,40,8,0,0,Math.PI*2);B.fillStyle="rgba(0,0,0,0.25)";B.fill();Q.setPose({...Anim.REST,...p,wpn:undefined});Q.stamp(B,bow,"side",cx,fy,K,false);Q.setPose(null);B.fillStyle="#f2e6c8";B.font=`12px ${FONT}`;B.textAlign="center";B.fillText(t,cx,222);});
@@ -41,7 +41,7 @@ const A=cv("a",1240,3*235);AK.forEach((k,i)=>{const col=i%5,row=Math.floor(i/5),
   const QATK=["greatsword","spear","scythe","gun","crossbow"].includes(k);const P=k==="bow"?{...Anim.REST,bowAim:1,pull:4,wpn:undefined}:QATK?{...Anim.REST,atk:1,wpn:undefined,lean:0.12,hipN:0.4,hipF:-0.3}:Anim.CLIP[(Anim.ATTACK[k]??Anim.ATTACK.sword)[1]].pose(1);Q.setPose({...P,wpn:P.wpn===null?undefined:P.wpn});Q.stamp(A,U(k),"side",cx,fy,2.9,false);Q.setPose(null);
   A.fillStyle="#f2e6c8";A.font=`12px ${FONT}`;A.textAlign="center";A.fillText(AZ[k],cx,fy+20);});
 // 雙手劍三格等
-{const G=cv("g2",1240,2*225);const L=[["greatsword",0,"雙手劍・蓄力（扛到肩上）"],["greatsword",0.5,"雙手劍・舉到臉前上方"],["greatsword",1,"雙手劍・命中"],["spear",0,"長槍・收"],["spear",1,"長槍・刺出"],["scythe",0,"鐮・舉起"],["scythe",1,"鐮・收割"],["gun",0,"火槍・持槍"],["gun",1,"火槍・瞄準"]];
+{const G=cv("g2",1240,2*225);const L=[["greatsword",0,"雙手劍・蓄力"],["greatsword",0.5,"雙手劍・舉到臉前上方"],["greatsword",1,"雙手劍・命中"],["spear",0,"長槍・收"],["spear",1,"長槍・刺出"],["scythe",0,"鐮・舉起"],["scythe",1,"鐮・收割"],["gun",0,"火槍・持槍"],["gun",1,"火槍・瞄準"]];
   L.forEach(([k,t,zh],i)=>{const cx=70+(i%5)*248,fy=Math.floor(i/5)*225+200;G.beginPath();G.ellipse(cx,fy,40,8,0,0,Math.PI*2);G.fillStyle="rgba(0,0,0,0.25)";G.fill();Q.setPose({...Anim.REST,atk:t,wpn:undefined});Q.stamp(G,U(k),"side",cx,fy,2.9,false);Q.setPose(null);G.fillStyle="#f2e6c8";G.font=`12px ${FONT}`;G.textAlign="left";G.fillText(zh,Math.max(8,cx-G.measureText(zh).width/2),fy+18); /* 第 10 版：第一欄的長標籤不被面板左緣切掉（審查：「雙」字被切） */});}
 // 待機關鍵格
 const IK=["sword","sword_shield","saber","arcane_blade","paired","spear","scythe","whip","gauntlet","staff","orb","bow","crossbow","gun","greatsword"],IZ={...AZ,sword_shield:"劍盾"};

diff --git a/docs/art/sample/tools/closeups.html b/docs/art/sample/tools/closeups.html
@@ -15,8 +15,9 @@ const cell=(file,title,u,v,w,p,gs,K,W,H,fy,cx)=>CELLS.push({file,title,u,v,w,p,g
 const VZ=[["front",false,"正面","front"],["back",false,"背面","back"],["side",false,"朝東","east"],["side",true,"朝西","west"]];
 if(SET==="key"){
   // 關鍵姿勢 10 列 × 4 方向（同 key-poses.html：K 3.4、格 240×196）
-  const ROWS=[["劍類：雙手劍・拄劍","gs-plant",U("greatsword"),"plant"],["劍類：雙手劍・扛肩","gs-shoulder",U("greatsword"),"shoulder"],["長柄：長槍","spear",U("spear")],["長柄：鐮","scythe",U("scythe")],["弓","bow",U("bow")],["弩與槍：弩","crossbow",U("crossbow")],["弩與槍：火槍","gun",U("gun")],["法杖（單手）","staff",U("staff")],["單手加副手：劍盾","sword-shield",{look:TPL.hero_fighter.look,gear:{...TPL.hero_fighter.gear,cloak:undefined}}],["單手加副手：杖＋書","staff-book",TPL.hero_mage]];
-  ROWS.forEach(([zh,f,u,gs],r)=>VZ.forEach(([v,w,t,e])=>cell(`r${String(r+1).padStart(2,"0")}_${f}_${e}`,`${zh}・${t}`,u,v,w,null,gs||"plant",3.4,240,224,202)));
+  /* 第 17 版：雙手劍不做第二種待機，r02 那一列刪掉；其他列的編號不變（r01、r03～r10），檔名和第 16 版相同 */
+  const ROWS=[[1,"劍類：雙手劍・拄劍","gs-plant",U("greatsword")],[3,"長柄：長槍","spear",U("spear")],[4,"長柄：鐮","scythe",U("scythe")],[5,"弓","bow",U("bow")],[6,"弩與槍：弩","crossbow",U("crossbow")],[7,"弩與槍：火槍","gun",U("gun")],[8,"法杖（單手）","staff",U("staff")],[9,"單手加副手：劍盾","sword-shield",{look:TPL.hero_fighter.look,gear:{...TPL.hero_fighter.gear,cloak:undefined}}],[10,"單手加副手：杖＋書","staff-book",TPL.hero_mage]];
+  ROWS.forEach(([r,zh,f,u])=>VZ.forEach(([v,w,t,e])=>cell(`r${String(r).padStart(2,"0")}_${f}_${e}`,`${zh}・${t}`,u,v,w,null,null,3.4,240,224,202)));
   // 弓 6 格（K 3.4、格 200×230）
   [["待機",{nock:1},"idle"],["待機・抬一下",{nock:1,arm:-0.3,dw:-0.2},"idle-lift"],["拉弓 1/3",{bowAim:0.4,pull:1},"draw1"],["拉弓 2/3",{bowAim:0.8,pull:2.5},"draw2"],["拉滿",{bowAim:1,pull:4},"full"],["放箭",{bowAim:1,pull:0},"release"]].forEach(([t,p,f],i)=>cell(`b${i+1}_bow_${f}`,`弓・${t}（朝東）`,U("bow"),"side",false,{...Anim.REST,...p,wpn:undefined},null,3.4,200,230,200));
   // 出招命中格（K 2.9、格 248×235，人在左邊）
@@ -24,7 +25,7 @@ if(SET==="key"){
   AK.forEach((k,i)=>{const QATK=["greatsword","spear","scythe","gun","crossbow"].includes(k);const P=k==="bow"?{...Anim.REST,bowAim:1,pull:4,wpn:undefined}:QATK?{...Anim.REST,atk:1,wpn:undefined,lean:0.12,hipN:0.4,hipF:-0.3}:Anim.CLIP[(Anim.ATTACK[k]??Anim.ATTACK.sword)[1]].pose(1);
     cell(`a${String(i+1).padStart(2,"0")}_${k}`,`出招・${AZ[k]}（朝東）`,U(k),"side",false,{...P,wpn:P.wpn===null?undefined:P.wpn},null,2.9,248,235,205,70);});
   // 雙手出招起訖（K 2.9）
-  [["greatsword",0,"雙手劍・蓄力（扛到肩上）","gs-windup"],["greatsword",0.5,"雙手劍・舉到臉前上方","gs-raise"],["greatsword",1,"雙手劍・命中","gs-hit"],["spear",0,"長槍・收","spear-ready"],["spear",1,"長槍・刺出","spear-thrust"],["scythe",0,"鐮・舉起","scythe-raise"],["scythe",1,"鐮・收割","scythe-reap"],["gun",0,"火槍・持槍","gun-ready"],["gun",1,"火槍・瞄準","gun-aim"]]
+  [["greatsword",0,"雙手劍・蓄力","gs-windup"],["greatsword",0.5,"雙手劍・舉到臉前上方","gs-raise"],["greatsword",1,"雙手劍・命中","gs-hit"],["spear",0,"長槍・收","spear-ready"],["spear",1,"長槍・刺出","spear-thrust"],["scythe",0,"鐮・舉起","scythe-raise"],["scythe",1,"鐮・收割","scythe-reap"],["gun",0,"火槍・持槍","gun-ready"],["gun",1,"火槍・瞄準","gun-aim"]]
     .forEach(([k,t,zh,f],i)=>cell(`g${i+1}_${f}`,`${zh}（朝東）`,U(k),"side",false,{...Anim.REST,atk:t,wpn:undefined},null,2.9,248,225,200,70));
   // 待機開頭與中段（K 2.9）
   const IK=["sword","sword_shield","saber","arcane_blade","paired","spear","scythe","whip","gauntlet","staff","orb","bow","crossbow","gun","greatsword"],IZ={...AZ,sword_shield:"劍盾"};
@@ -50,7 +51,7 @@ function render(){
     const views=c.row?VZ:[[c.v,c.w,""]],W=(c.row?c.W*4+40:c.W)*Z,H=c.H*Z+28,cv=document.createElement("canvas");cv.width=W;cv.height=H;const x=cv.getContext("2d");
     x.fillStyle="#2a2e40";x.fillRect(0,0,W,H);x.fillStyle="#e8bb48";x.font=`26px ${FONT}`;x.fillText(c.title,12,32);
     views.forEach(([v,w,t],j)=>{const cx=(c.row?20+c.W*j+c.W/2:c.cx)*Z,fy=c.fy*Z;x.beginPath();x.ellipse(cx,fy,38*Z*c.K/3.4,7*Z,0,0,Math.PI*2);x.fillStyle="rgba(0,0,0,0.25)";x.fill();
-      Q.setGreatsword(c.gs||"plant");if(c.p)Q.setPose(c.p);Q.stamp(x,c.u,v,cx,fy,c.K*Z,w,NOLINE?{outline:false}:{});Q.setPose(null);Q.setGreatsword("plant");
+      if(c.p)Q.setPose(c.p);Q.stamp(x,c.u,v,cx,fy,c.K*Z,w,NOLINE?{outline:false}:{});Q.setPose(null);
       if(t){x.fillStyle="#b8ab96";x.font=`22px ${FONT}`;x.textAlign="center";x.fillText(t,cx,H-8);x.textAlign="left";}});
     const pre=document.createElement("pre");pre.dataset.file=c.file;pre.textContent=cv.toDataURL("image/png");out.appendChild(pre);
   });

diff --git a/docs/art/sample/style-compare-3.html b/docs/art/sample/style-compare-3.html
@@ -38,7 +38,7 @@
 <canvas id="c2" style="margin-top:10px"></canvas>
 
 <h2>6. 雙手武器：關鍵姿勢（另見 <code>key-poses.html</code>／<code>key-poses.png</code>）</h2>
-<p class="note">第 5 版（11-04 晚，使用者：「我不懂ㄟ有這麼難嗎」）：武器掛在主手手掌上，副手再去握第二個握點；10 列（雙手劍拄劍、扛肩、長槍、鐮、弓、弩、火槍、法杖、劍盾、杖＋書）× 正、背、東、西的姿勢逐一手調後寫死（第 9 版），不再自動擺位。雙手劍正面照使用者說的「劍尖指地」：雙手疊握劍柄在胸前、劍垂直往下、劍尖點在兩腳之間。舊的「雙手劍三種姿勢」與自動擺位示範已刪掉。</p>
+<p class="note">第 5 版（11-04 晚，使用者：「我不懂ㄟ有這麼難嗎」）：武器掛在主手手掌上，副手再去握第二個握點；9 列（雙手劍拄劍、長槍、鐮、弓、弩、火槍、法杖、劍盾、杖＋書；第 17 版起雙手劍只有拄劍）× 正、背、東、西的姿勢逐一手調後寫死（第 9 版），不再自動擺位。雙手劍正面照使用者說的「劍尖指地」：雙手疊握劍柄在胸前、劍垂直往下、劍尖點在兩腳之間。舊的「雙手劍三種姿勢」與自動擺位示範已刪掉。</p>
 
 <script src="current.js"></script><script src="raceArt.js"></script><script src="paperdoll.js"></script><script src="fx.js"></script><script src="realms.js"></script>
 <script src="qDoll.js"></script>

diff --git a/docs/art/部件四方向清單.md b/docs/art/部件四方向清單.md
@@ -1,6 +1,6 @@
 # Q 版部件 × 四方向清單（第 11 項）
 
-美術 PM，2026-11-04 晚；第 7 版（獨立審查退回後重做）同日深夜；第 8 版跟著修正清單第 8 版更新（握持點武器在手上面、弓兩手拿、拳套、背面持盾手、側面持盾只畫兩隻手）；第 9 版（2026-11-05）跟著修正清單第 9 版更新（弓四面同一個持弓待機、袖子描邊、扛肩朝東在近側肩、背面持盾前臂、背面單手武器被身體擋住、朝西法師書蓋杖、拳套朝西遠側手）；第 10 版（2026-11-05）跟著修正清單第 10 版更新（弓的正背面採 Q 版慣例、側面遠側手臂畫暗一階、背面持盾臂甲加深、成對武器遠側手、皮甲斜背帶朝東朝西各自畫）。使用者原話（專案 PM 轉達）：「還有其他物件都要考慮4面」。
+美術 PM，2026-11-04 晚；第 7 版（獨立審查退回後重做）同日深夜；第 8 版跟著修正清單第 8 版更新（握持點武器在手上面、弓兩手拿、拳套、背面持盾手、側面持盾只畫兩隻手）；第 9 版（2026-11-05）跟著修正清單第 9 版更新（弓四面同一個持弓待機、袖子描邊、背面持盾前臂、背面單手武器被身體擋住、朝西法師書蓋杖、拳套朝西遠側手）；第 10 版（2026-11-05）跟著修正清單第 10 版更新（弓的正背面採 Q 版慣例、側面遠側手臂畫暗一階、背面持盾臂甲加深、成對武器遠側手、皮甲斜背帶朝東朝西各自畫）。使用者原話（專案 PM 轉達）：「還有其他物件都要考慮4面」。
 
 - **原則**：每一樣東西都分別畫正面、背面、朝東、朝西，不拿正面左右照抄。
 - **背面**：在身體前面的東西被擋住，背上的東西露出來。
@@ -17,7 +17,7 @@
   4. 身體上的東西：紋章、頸飾、背帶、腰掛
   5. 披風（背面）
   5.5 遠側手臂（手伸到身體前方、握在武器上時；裁掉肩膀那段）
-  6. 頭、頭髮、頭飾、耳、角（扛肩、蓄力的劍身與弓弦畫在頭之前）
+  6. 頭、頭髮、頭飾、耳、角（弓弦畫在頭之前）
   7. 武器
   8. 近側手臂
 - **第 8 版的兩條通用規則**（專案 PM 轉使用者：「法仗塗層要在最上面」）：
@@ -101,5 +101,5 @@
 | 盾（左手） | 在畫面右，有鋼邊 | 盾背（木板）在畫面左、在身體後面；左上臂從肩膀垂下，前臂往外橫過盾背，前臂上套一條直的臂帶，手握住靠盾緣的握把（握把畫在拳頭上面）；手臂（臂甲）畫暗一階，和盾緣分開（第 10 版）；整隻手臂從肩膀連到手（「拿在身前連手一起擋住」的例外）；有披風時披風在最上層 | 左手在遠側、在盾後面（被盾擋住），盾舉在胸前；不另外畫一隻垂著的左手 | 左手在近側、在盾後面，盾在前面 |
 | 書（左手） | 在畫面右 | 大部分被身體擋住，只露一角 | 在遠側手、身體後面露一點 | 在近側手、最後畫，蓋在遠側手的杖上面；遠側握杖的手在書的上方、看得到（第 9 版） |
 | 法杖（右手） | 在畫面左、身側；杖畫在手上面 | 在畫面右、身側，手看得到，杖畫在手上面 | 杖稍往前傾（第 8 版少傾一點，杖頭不伸進隔壁格） | 同朝東，杖在遠側手 |
-| 雙手武器 | 關鍵姿勢（`key-poses.png`）；武器畫在兩隻手上面 | 另外手調，不是鏡像；兩手在身體前方被擋住 | 關鍵姿勢；遠側手伸到身體前方、握在武器上時畫在身體前面；扛肩（第 9 版）：右肩在近側，劍身從胸前經過近側肩頸、往後上方，蓋在後腦頭髮上面、從下巴下面經過不蓋臉，兩手在胸前握柄、中間露出一段劍柄 | 主手在遠側、副手在近側；扛肩時右肩在遠側，劍身在頭後面 |
+| 雙手武器 | 關鍵姿勢（`key-poses.png`）；武器畫在兩隻手上面 | 另外手調，不是鏡像；兩手在身體前方被擋住 | 關鍵姿勢；遠側手伸到身體前方、握在武器上時畫在身體前面；雙手劍只有拄劍（第 17 版），蓄力從拄劍把劍提起、雙手握柄舉到身體斜前上方 | 主手在遠側、副手在近側 |
 | 鞭（待機） | 本版只畫側面樣張 | 本版只畫側面樣張 | 鞭柄握在拳頭裡、鞭身從拳頭下方垂下，鞭梢在腳前地上捲 | 同朝東 |
